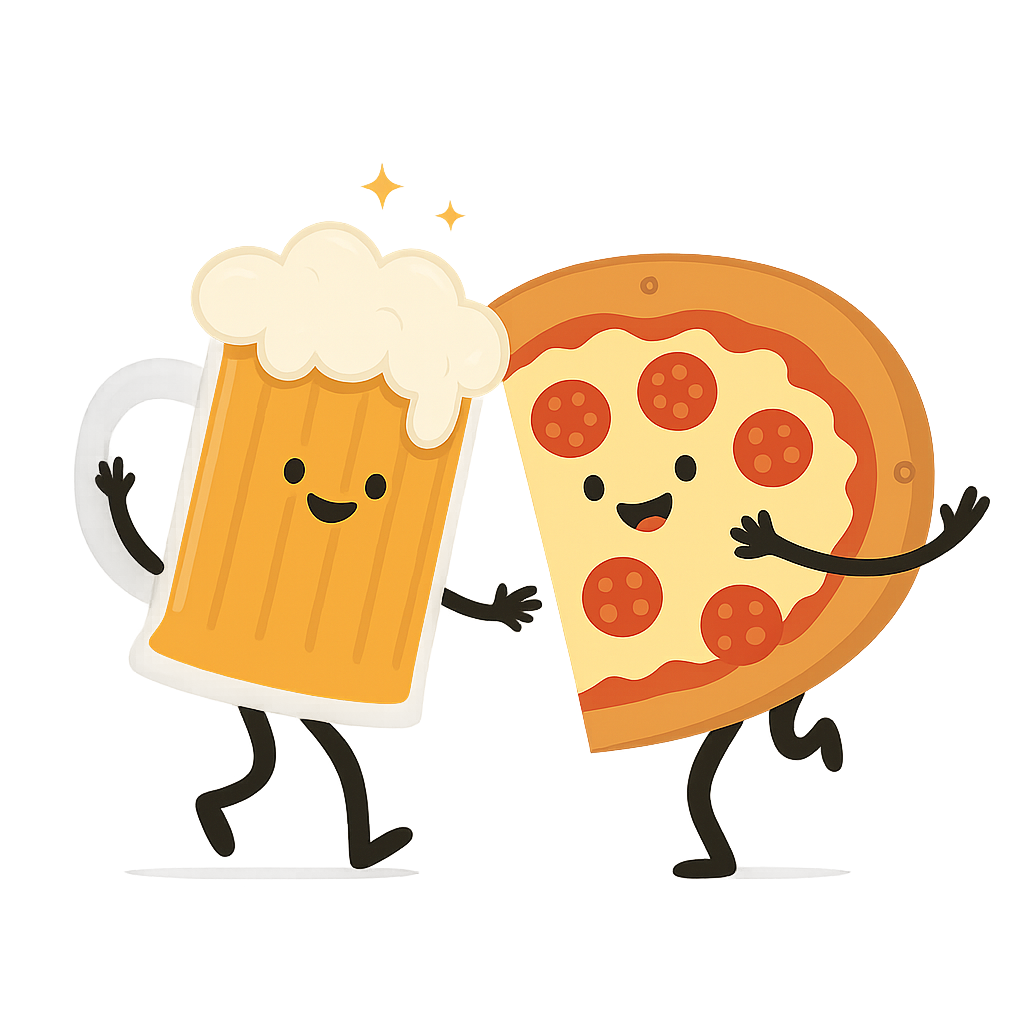
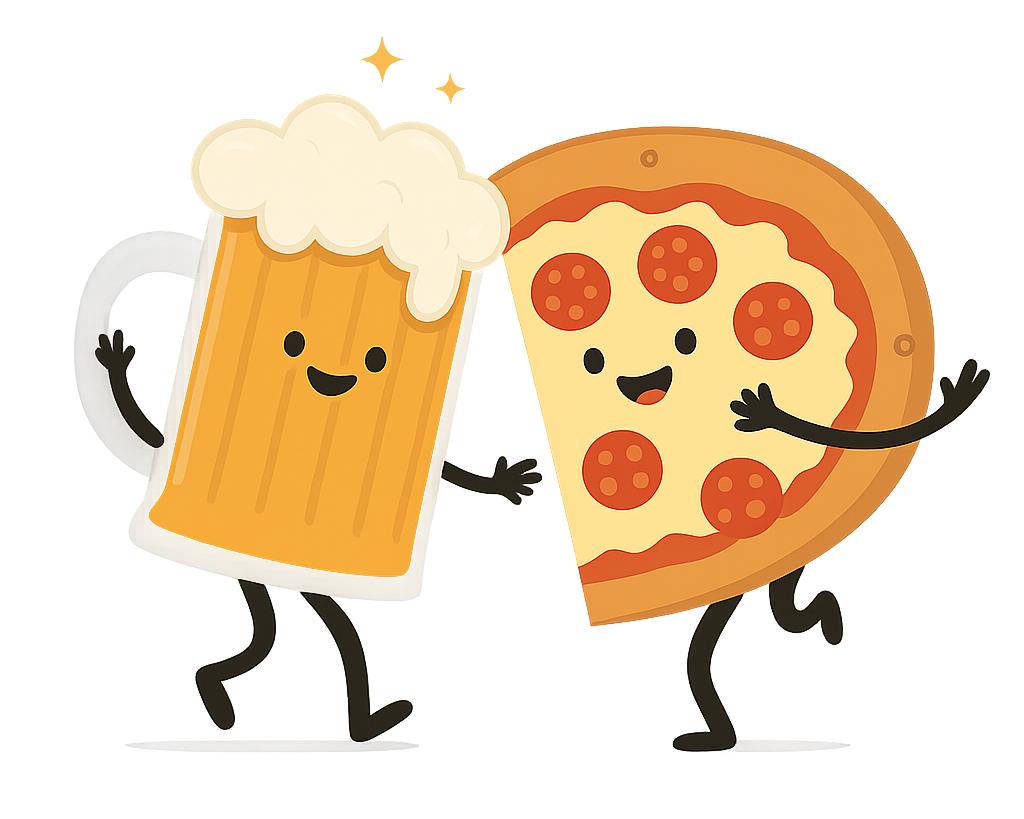
landing spacing

diff --git a/src/app/page.tsx b/src/app/page.tsx
@@ -53,11 +53,11 @@ export default function Home() {
     }
   }
   return (
-    <div className="min-h-screen bg-gradient-to-br from-slate-50 to-slate-100 flex items-start justify-center pt-16">
+    <div className="min-h-screen bg-gradient-to-br from-slate-50 to-slate-100 flex items-start justify-center pt-0">
       <div className="w-full max-w-md mx-auto px-4 py-4">
         {/* Header */}
         <div className="text-center mb-8">
-          <div className="mb-6">
+          <div className="mb-6 pt-4">
             <Image 
               src="/food-drink-pairing.png" 
               alt="Beer mug and pizza slice dancing together - perfect food and drink pairing"
@@ -81,7 +81,7 @@ export default function Home() {
             <Button 
               size="lg" 
               onClick={handleStartClick}
-              className="bg-primary hover:bg-primary/90 text-white px-6 py-4 text-lg sm:text-xl h-auto min-h-[56px] sm:min-h-[60px] font-semibold w-80 rounded-xl"
+              className="bg-primary hover:bg-primary/90 text-white px-6 py-4 text-lg sm:text-lg h-auto min-h-[56px] sm:min-h-[60px] font-medium w-80 rounded-xl"
             >
               <span className="text-2xl">🥂</span>술 추천받기
             </Button>
@@ -90,7 +90,7 @@ export default function Home() {
           <Link href="/drink">
             <Button 
               size="lg" 
-              className="bg-primary hover:bg-primary/90 text-white px-6 py-4 text-lg sm:text-xl h-auto min-h-[56px] sm:min-h-[60px] font-semibold w-80 rounded-xl"
+              className="bg-primary hover:bg-primary/90 text-white px-6 py-4 text-lg sm:text-lg h-auto min-h-[56px] sm:min-h-[60px] font-medium w-80 rounded-xl"
             >
               <span className="text-2xl">🍲</span>안주 추천받기
             </Button>
